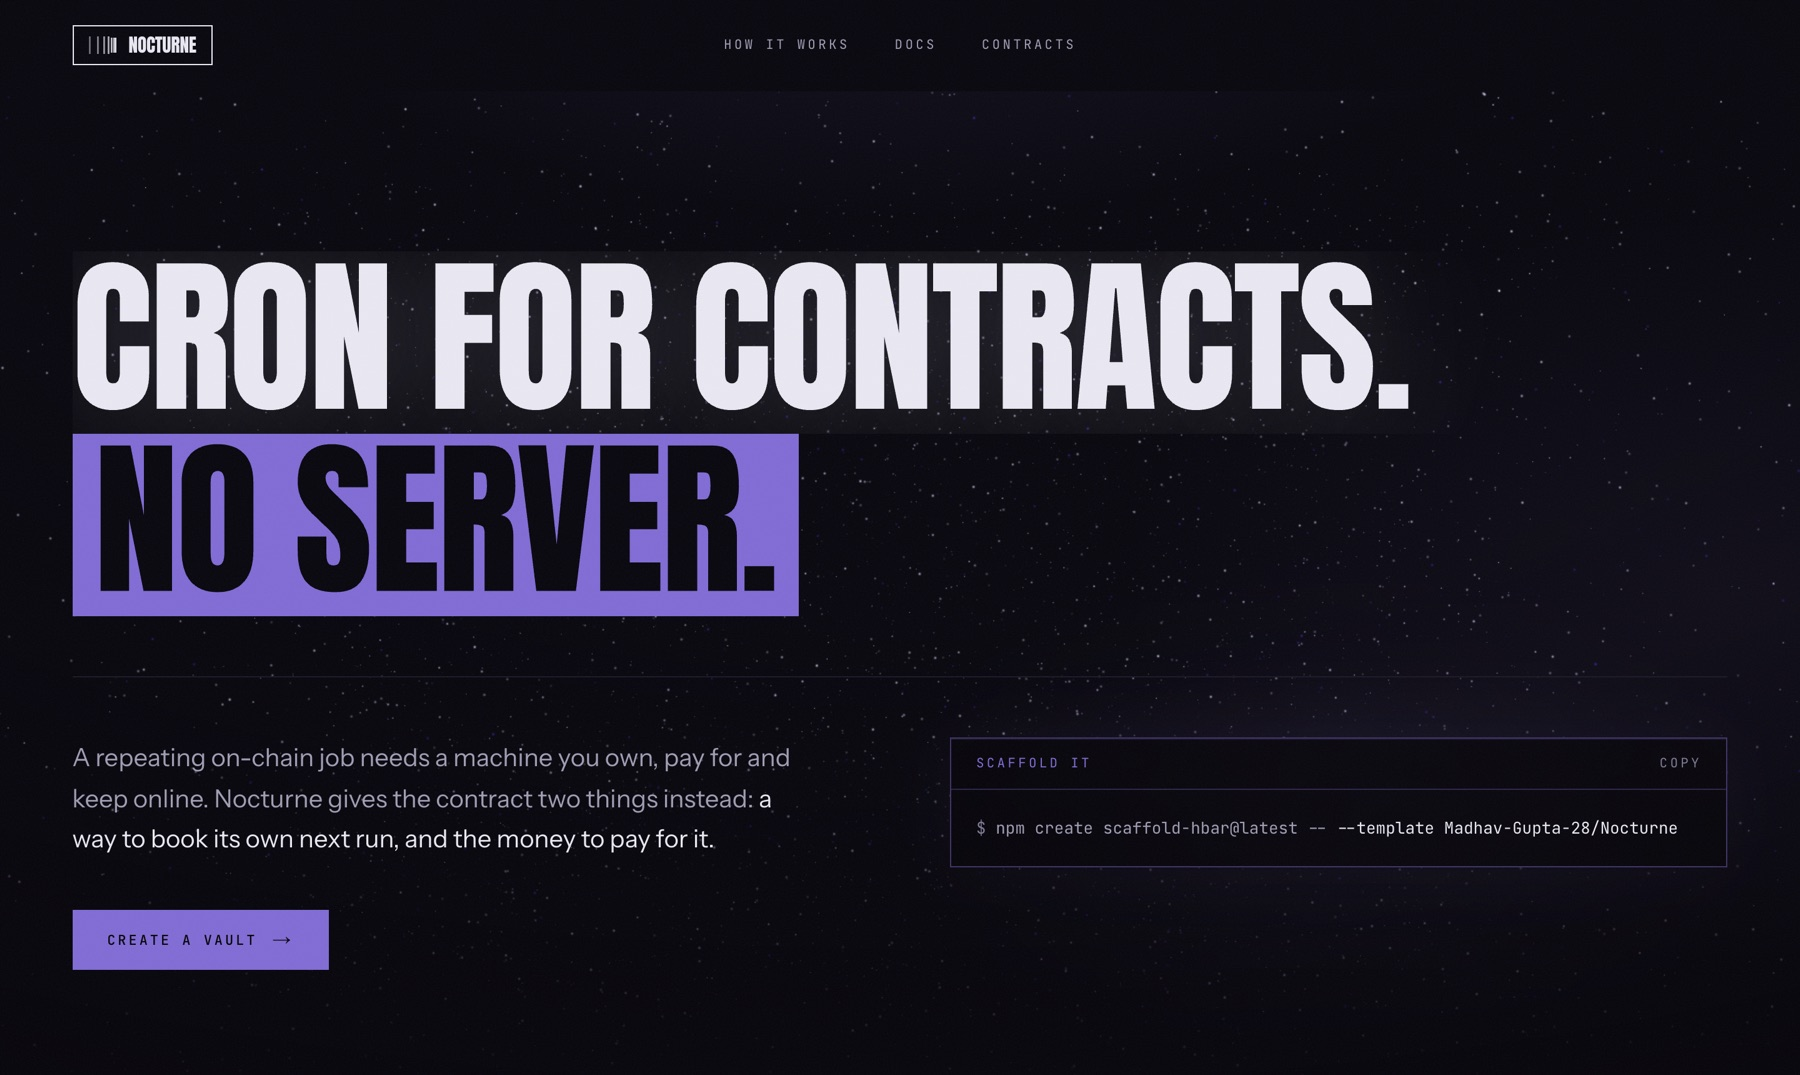
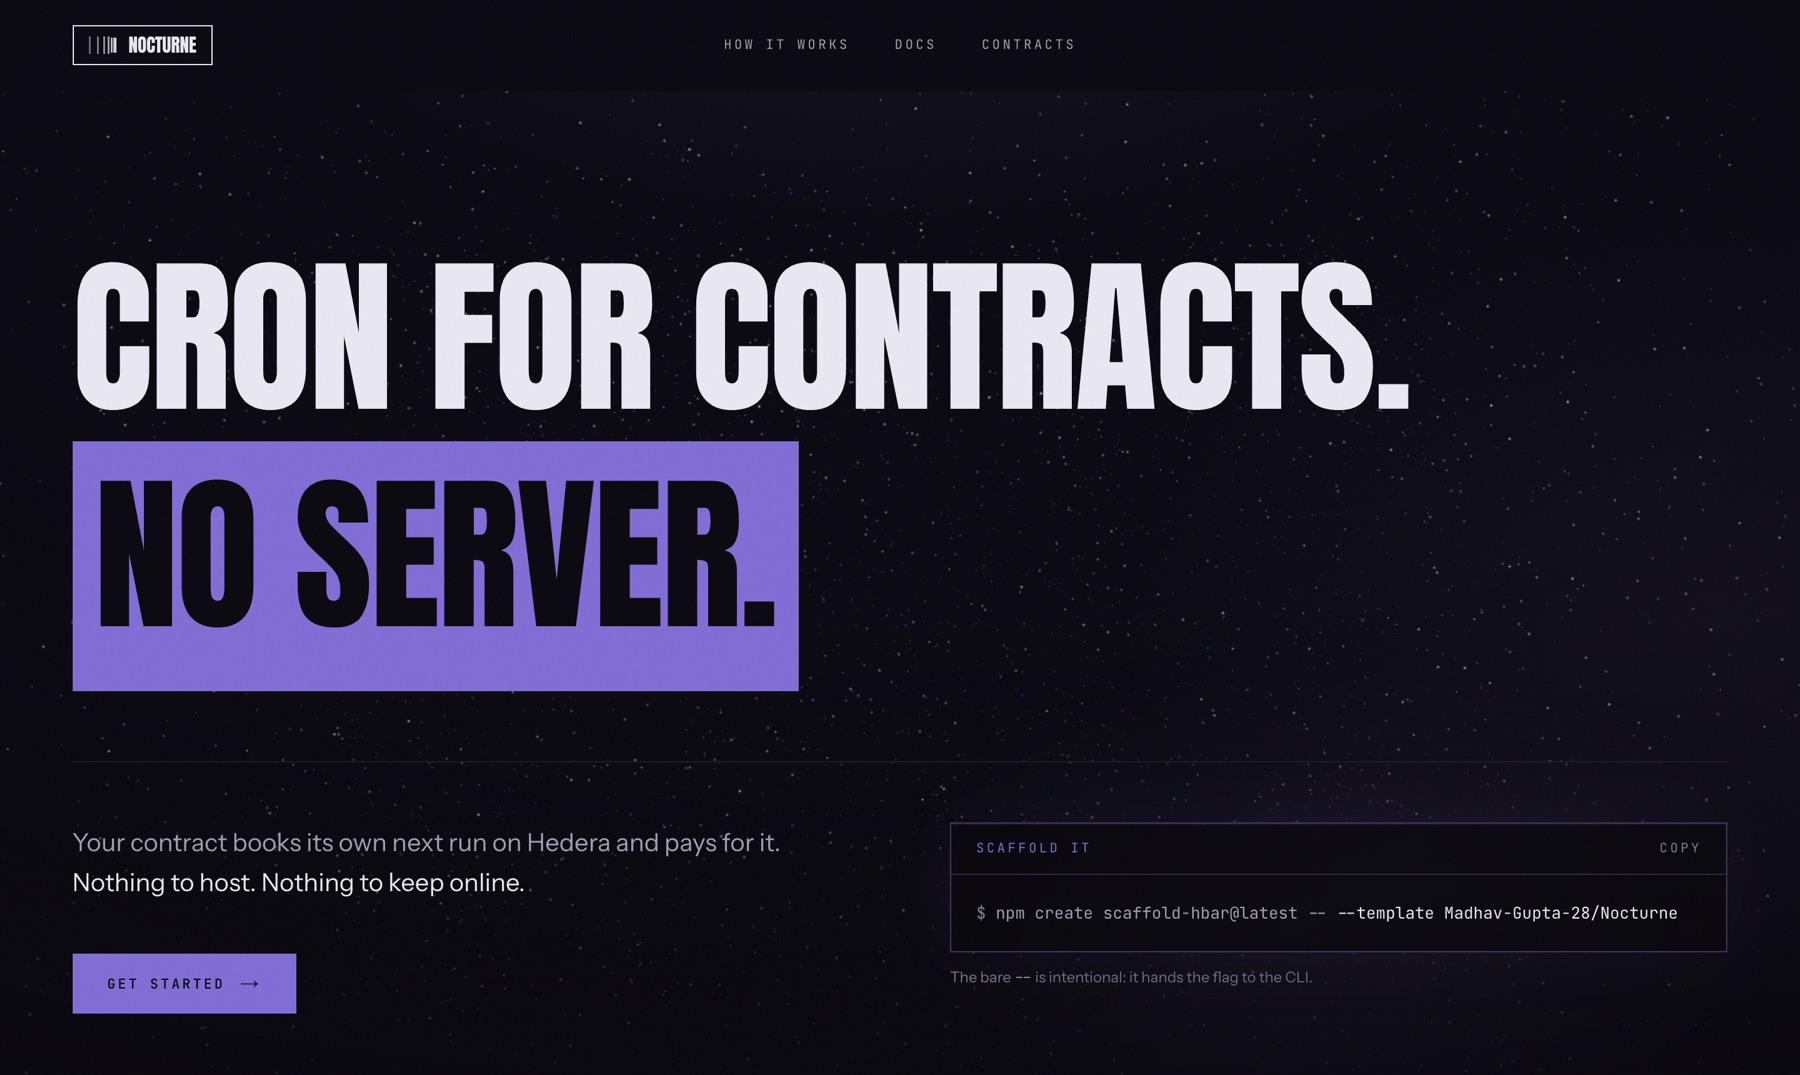
Show the refusal and the sale from two real vaults
Redeploy ProtectiveExitStrategy with the empty-vault fix and run it on
testnet at the stock 2% tolerance: a WHBAR vault refused a pool 22x off
Chainlink, a DAI vault sold 1 DAI for 1.001757 USDC into a pool on its peg,
then parked itself for 60 days. A DAI depeg guard is left running.

Also restore the taller marker block in the headlines.

diff --git a/packages/nextjs/app/_components/Proof.tsx b/packages/nextjs/app/_components/Proof.tsx
@@ -29,6 +29,8 @@ type Run = {
   asset: string;
   refused: boolean;
   verdict: string;
+  /** What happened to the position, as the mirror node recorded it. */
+  result: string;
   pool: number;
   feed: number;
   apart: string;
@@ -41,26 +43,28 @@ const RUNS: Run[] = [
     asset: "WHBAR",
     refused: true,
     verdict: "Refused to sell",
-    pool: 2.0374,
-    feed: 0.0924,
+    result: "Kept all 0.1 WHBAR",
+    pool: 2.0382,
+    feed: 0.092,
     apart: "22× apart",
-    fee: "—",
-    tx: "",
+    fee: "1.81",
+    tx: "1790319391.014683746",
   },
   {
     asset: "DAI",
     refused: false,
     verdict: "Sold 1 DAI",
+    result: "For 1.001757 USDC",
     pool: 1.0023,
     feed: 0.9999,
     apart: "0.24% apart",
-    fee: "—",
-    tx: "",
+    fee: "2.64",
+    tx: "1790319308.034520104",
   },
 ];
 
 /** The DAI depeg guard left running: floor $0.85, checked every six hours. */
-const ON_DUTY = "" as Address;
+const ON_DUTY: Address = "0xaFa895f727Fb0287fCB3E08DD9dA13287356837f";
 
 export const Proof = () => (
   <section className="shell pt-28 sm:pt-36">
@@ -79,11 +83,9 @@ export const Proof = () => (
       ))}
     </div>
 
-    {ON_DUTY ? (
-      <Reveal>
-        <OnDuty vault={ON_DUTY} />
-      </Reveal>
-    ) : null}
+    <Reveal>
+      <OnDuty vault={ON_DUTY} />
+    </Reveal>
   </section>
 );
 
@@ -108,6 +110,7 @@ const RunCard = ({ run }: { run: Run }) => {
         </div>
 
         <p className={`display m-0 mt-5 text-[clamp(1.9rem,3.4vw,2.75rem)] leading-none ${tone}`}>{run.verdict}</p>
+        <p className="mb-0 mt-3 font-mono text-sm text-paper-dim">{run.result}</p>
 
         <dl className="m-0 mt-8 space-y-4">
           {[

diff --git a/packages/nextjs/contracts/deployedContracts.ts b/packages/nextjs/contracts/deployedContracts.ts
@@ -933,7 +933,7 @@ const deployedContracts = {
       deployedOnBlock: 40910353,
     },
     ProtectiveExitStrategy: {
-      address: "0x699Ec374cb2b6BaBb809cB70E58018E5f6be3E59",
+      address: "0x942bBa07CfC2FAf1dD000C73FF04ccAabC61dBfd",
       abi: [
         {
           inputs: [
@@ -1193,7 +1193,7 @@ const deployedContracts = {
         plan: "contracts/interfaces/INocturneStrategy.sol",
         validateConfig: "contracts/interfaces/INocturneStrategy.sol",
       },
-      deployedOnBlock: 40910339,
+      deployedOnBlock: 40956642,
     },
   },
 } as const;

diff --git a/packages/nextjs/styles/globals.css b/packages/nextjs/styles/globals.css
@@ -272,7 +272,9 @@
   line-height: 0.92;
   background: var(--color-signal);
   color: var(--color-ink);
-  padding: 0.08em 0.13em 0.02em;
+  /* A generous block, like a highlighter pass, rather than a tight label. */
+  padding: 0.22em 0.13em 0.34em;
+  margin-top: 0.04em;
   text-shadow: none;
 }
 

diff --git a/README.md b/README.md
@@ -19,34 +19,36 @@ npm create scaffold-hbar@latest -- nocturne --template Madhav-Gupta-28/Nocturne
 
 ## Proof, on testnet
 
-One vault held 0.1 WHBAR against the live SaucerSwap V2 pool and the live
-Chainlink HBAR/USD feed. Nobody sent any of its runs. The network did, and the
-vault paid.
+Two vaults, same code, same stock 2% tolerance. One held WHBAR against a pool
+that has drifted 22x from the real price; the other held DAI against a pool on
+its peg. Nobody sent any of their runs. The network did, and each vault paid.
 
-![The refusal and the swap](docs/images/proof.jpg)
+![The refusal and the sale](docs/images/proof.jpg)
 
-| Run | What happened | Fee, paid by the vault | Transaction |
-| --- | --- | --- | --- |
-| 1 | **Refused.** Pool $2.0503, Chainlink $0.0915, 22.4× apart. Sold nothing. | 1.78 HBAR | [HashScan](https://hashscan.io/testnet/transaction/1790220055.062657433) |
-| 2 | **Sold.** Tolerance widened on purpose: approve + swap, 0.1 WHBAR → 0.204405 USDC. | 2.62 HBAR | [HashScan](https://hashscan.io/testnet/transaction/1790220899.081501493) |
-| 3 | **Refused**, "nothing held". It does not sell twice. | — | [vault](https://hashscan.io/testnet/contract/0.0.10690925) |
+| Vault | SaucerSwap | Chainlink | What happened | Fee, paid by the vault | Transaction |
+| --- | --- | --- | --- | --- | --- |
+| WHBAR [`0.0.10710164`](https://hashscan.io/testnet/contract/0.0.10710164) | $2.0382 | $0.0920 | **Refused.** 22x apart. Kept all 0.1 WHBAR. | 1.81 HBAR | [HashScan](https://hashscan.io/testnet/transaction/1790319391.014683746) |
+| DAI [`0.0.10710193`](https://hashscan.io/testnet/contract/0.0.10710193) | $1.0023 | $0.9999 | **Sold.** 0.24% apart: approve + swap, 1 DAI → 1.001757 USDC. | 2.64 HBAR | [HashScan](https://hashscan.io/testnet/transaction/1790319308.034520104) |
 
-The 22× gap is a testnet artefact: nothing arbitrages a testnet pool. That makes
-it a poor place to show a realistic sale, so run 2 uses an absurd tolerance to
-prove the swap path on chain. And it's the perfect place to show a refusal.
+The DAI vault's next run found nothing left to protect and booked its next check
+60 days out, rather than checking every minute until its fuel ran out.
+
+A third vault is **still running**: a DAI depeg guard at
+[`0.0.10710268`](https://hashscan.io/testnet/contract/0.0.10710268), floor $0.85,
+checking every six hours and paying for each check itself.
 
 ### Check it yourself
 
-Who paid for the swap? The mirror node says the vault, and only the vault:
+Who paid for the sale? The mirror node says the vault, and only the vault:
 
 ```bash
-curl -s "https://testnet.mirrornode.hedera.com/api/v1/transactions?timestamp=1790220899.081501493" \
+curl -s "https://testnet.mirrornode.hedera.com/api/v1/transactions?timestamp=1790319308.034520104" \
   | jq '.transactions[] | {scheduled, result, paid_by: [.transfers[] | select(.amount < 0)]}'
 ```
 
 ```json
 { "scheduled": true, "result": "SUCCESS",
-  "paid_by": [{ "account": "0.0.10690925", "amount": -262493037 }] }
+  "paid_by": [{ "account": "0.0.10710193", "amount": -263671981 }] }
 ```
 
 **Read the transfer list, not the transaction id.** A scheduled transaction's id
@@ -263,14 +265,11 @@ All Sourcify-verified, so HashScan shows source.
 | Contract | Address |
 | --- | --- |
 | NocturneFactory | [`0xc0f202Ac01475AFBD07e09643d56bdacC9294B78`](https://hashscan.io/testnet/contract/0xc0f202Ac01475AFBD07e09643d56bdacC9294B78) |
-| ProtectiveExitStrategy | [`0x699Ec374cb2b6BaBb809cB70E58018E5f6be3E59`](https://hashscan.io/testnet/contract/0x699Ec374cb2b6BaBb809cB70E58018E5f6be3E59) |
+| ProtectiveExitStrategy | [`0x942bBa07CfC2FAf1dD000C73FF04ccAabC61dBfd`](https://hashscan.io/testnet/contract/0x942bBa07CfC2FAf1dD000C73FF04ccAabC61dBfd) |
 | DriftRebalanceStrategy | [`0xfFFc7Da411a899e8c76fc4546D63e8e38Fc55D64`](https://hashscan.io/testnet/contract/0xfFFc7Da411a899e8c76fc4546D63e8e38Fc55D64) |
 | HeartbeatStrategy | [`0xA5638e6682e2FDCC89CEE92Ffc9EC98F3D602428`](https://hashscan.io/testnet/contract/0xA5638e6682e2FDCC89CEE92Ffc9EC98F3D602428) |
 | PriceLens | [`0x7F017Bd04879389b2A9CEeD5941EeE75aD28cCdb`](https://hashscan.io/testnet/contract/0x7F017Bd04879389b2A9CEeD5941EeE75aD28cCdb) |
 | Heartbeat | [`0x8b63C92F7d906862922D060C7Ffc294d8a43ec0b`](https://hashscan.io/testnet/contract/0x8b63C92F7d906862922D060C7Ffc294d8a43ec0b) |
-
-The exit vault `0.0.10690925` above was built by an earlier deployment of the
-same contracts.
 
 ---
 
